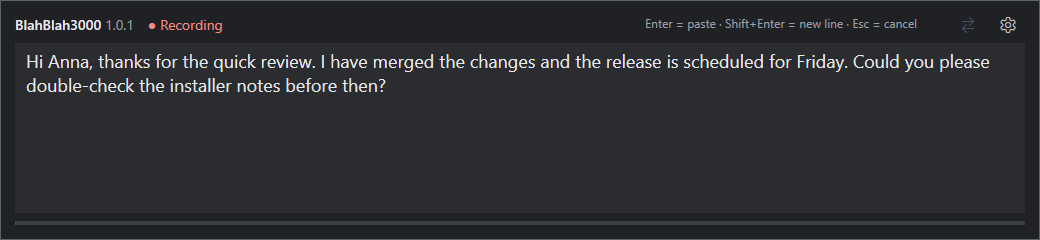
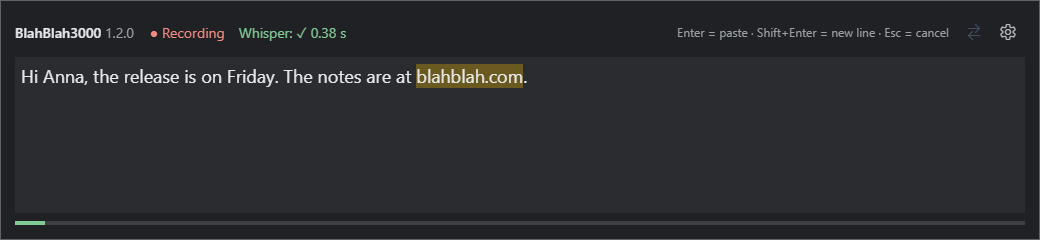
Refresh the README screenshot for 1.2.0
The screenshot is rendered from the same mockup as the promo video
(npm run screenshot in promo), so it shows the current version. The
settings sentence of the README now mentions push to talk and the AI
text correction.

diff --git a/promo/src/Compositions.tsx b/promo/src/Compositions.tsx
@@ -3,6 +3,7 @@ import { Audio, Sequence, staticFile } from "remotion";
 import { AI_DURATION, AiScene } from "./AiScene";
 import { LATCH_DURATION, LatchScene, PTT_DURATION, PttScene } from "./ChatScene";
 import { Classic } from "./Classic";
+import { DictationWindow } from "./DictationWindow";
 import { Montage, MONTAGE_DURATION } from "./Montage";
 import { MUSIC } from "./music";
 import { NARRATION, startOf } from "./narration";
@@ -81,3 +82,6 @@ export const PromoLong: React.FC = () => (
     <Audio src={staticFile(MUSIC.file)} volume={MUSIC.volume} />
   </>
 );
+
+// The dictation window alone, 1:1, for the screenshot in the README (render the frame 528: both sentences are there and the replacement is done).
+export const Screenshot: React.FC = () => <DictationWindow speaking={false} level={0.03} />;

diff --git a/promo/src/Root.tsx b/promo/src/Root.tsx
@@ -1,10 +1,11 @@
 import React from "react";
 import { Composition } from "remotion";
-import { LONG_DURATION, PromoLong } from "./Compositions";
+import { LONG_DURATION, PromoLong, Screenshot } from "./Compositions";
 import { FPS } from "./timeline";
 
 export const Root: React.FC = () => (
   <>
+    <Composition id="Screenshot" component={Screenshot} durationInFrames={600} fps={FPS} width={1040} height={240} />
     <Composition id="PromoLong" component={PromoLong} durationInFrames={Math.round(LONG_DURATION * FPS)} fps={FPS} width={1920} height={1080} />
   </>
 );

diff --git a/README.md b/README.md
@@ -103,7 +103,7 @@ consent, and the download can be cancelled at any time. You can also place the f
 | Esc | Cancel |
 
 Settings (tray menu → Settings, or the gear icon in the dictation window) cover the interface and transcription language,
-the shortcut, autostart, the REST API, the microphone and its sensitivity, the Whisper hint and the replacements.
+the shortcut and push to talk, autostart, the AI text correction, the REST API, the microphone and its sensitivity, the Whisper hint and the replacements.
 
 ## REST API
 
